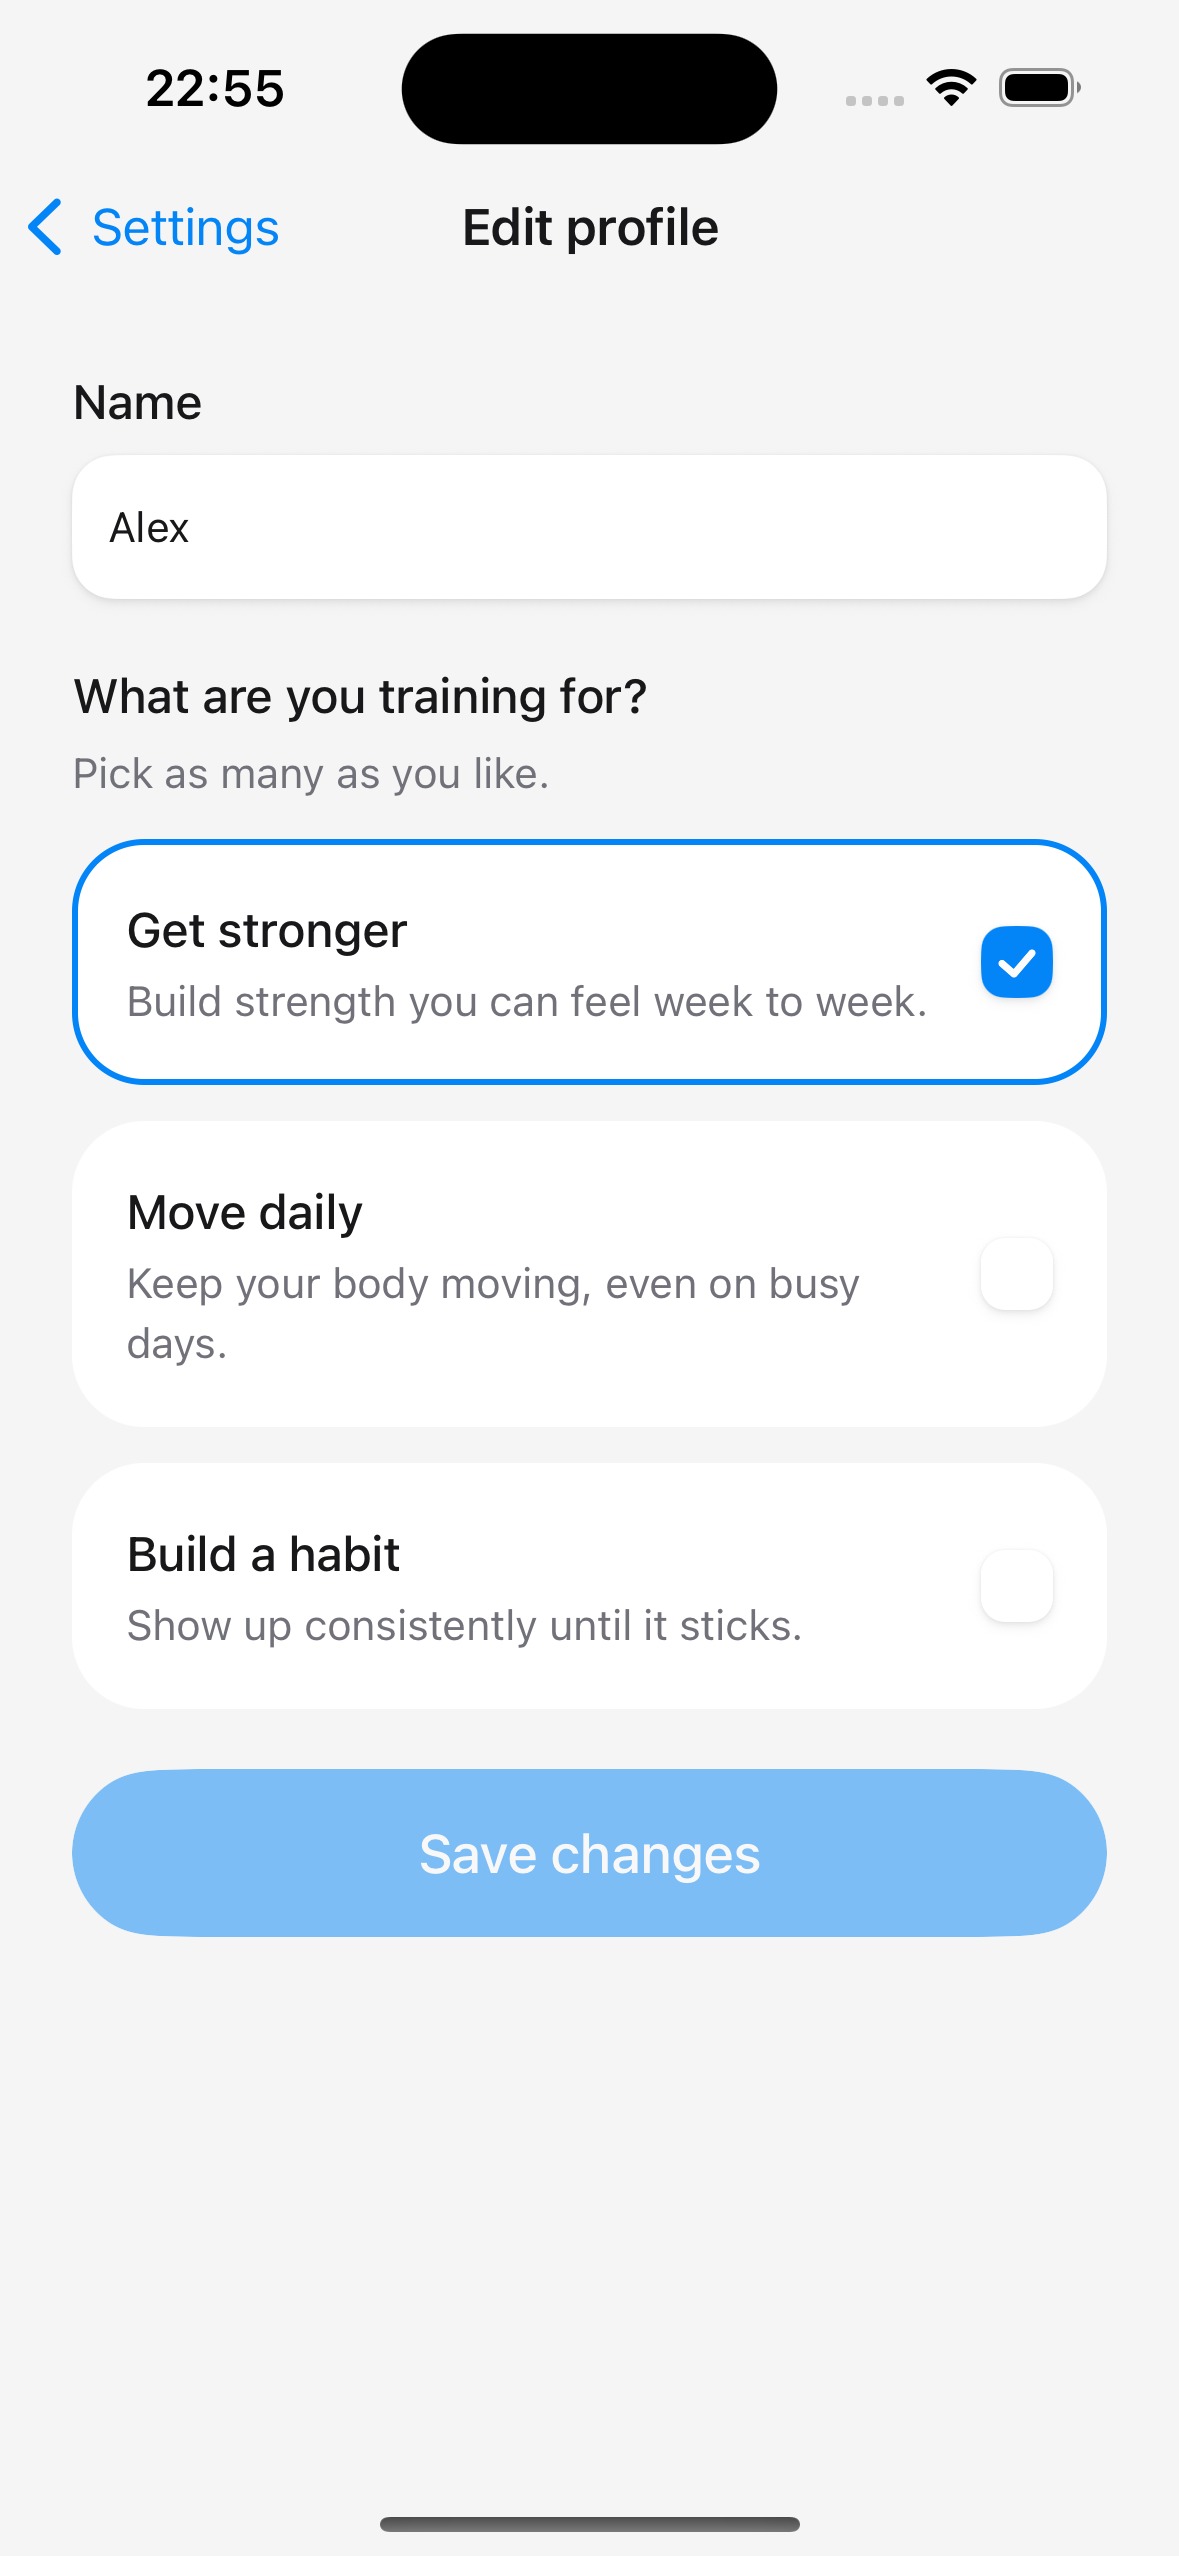
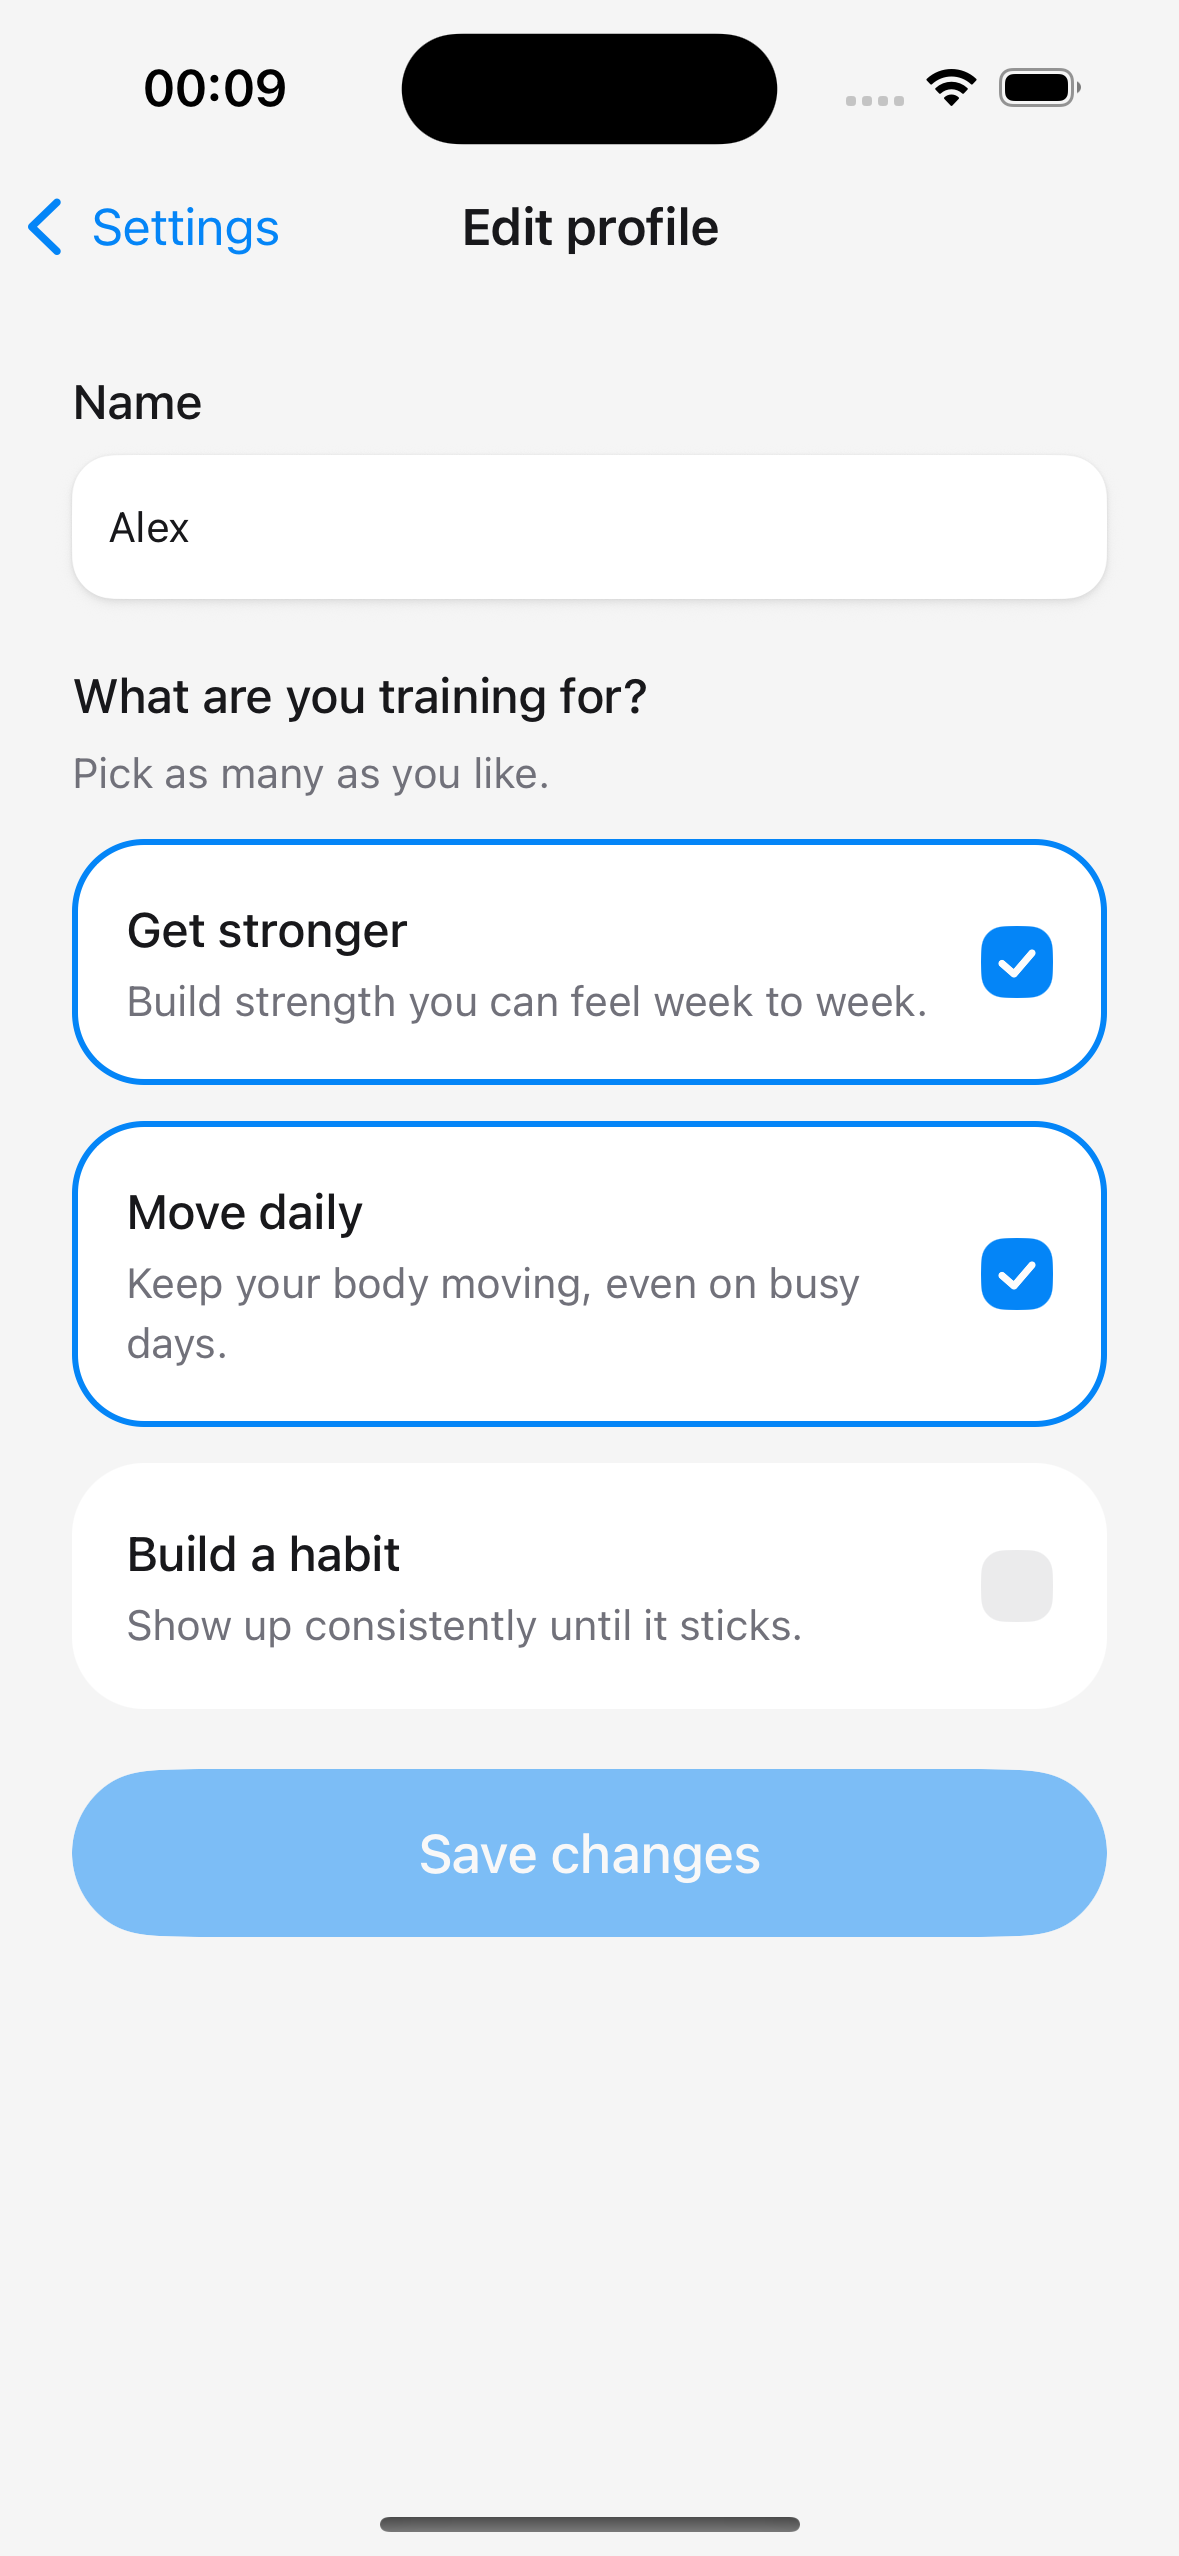
docs(mobile): walkthrough screenshots, readmes and final polish

Changed region(s): [[0.8244, 0.4327, 0.9466, 0.5563], [0.1221, 0.0309, 0.2443, 0.0618], [0.0611, 0.4327, 0.0916, 0.5563]]

diff --git a/apps/mobile/src/features/profile/goals-field.tsx b/apps/mobile/src/features/profile/goals-field.tsx
@@ -1,6 +1,6 @@
 import { GOALS, type Goal } from '@forge/contracts';
 import * as Haptics from 'expo-haptics';
-import { cn, ControlField, Description, FieldError, Label } from 'heroui-native';
+import { Checkbox, cn, ControlField, Description, FieldError, Label } from 'heroui-native';
 import { View } from 'react-native';
 import { useController, type Control, type FieldPath, type FieldValues } from 'react-hook-form';
 import { GOAL_LABELS } from '@/content/labels';
@@ -49,7 +49,11 @@ export function GoalsField<TValues extends FieldValues, TOutput>({
               <Label>{GOAL_LABELS[goal].title}</Label>
               <Description>{GOAL_LABELS[goal].description}</Description>
             </View>
-            <ControlField.Indicator variant="checkbox" />
+            {/* On a surface-coloured card the primary checkbox is invisible in dark (same field
+                colour, transparent shadow); `secondary` keeps a visible box in both modes. */}
+            <ControlField.Indicator>
+              <Checkbox variant="secondary" />
+            </ControlField.Indicator>
           </ControlField>
         );
       })}

diff --git a/apps/mobile/src/features/session/block-row.tsx b/apps/mobile/src/features/session/block-row.tsx
@@ -1,5 +1,5 @@
 import type { SessionBlock } from '@forge/contracts';
-import { ControlField, Surface, Typography } from 'heroui-native';
+import { Checkbox, ControlField, Surface, Typography } from 'heroui-native';
 import { View } from 'react-native';
 import { Icon } from '@/components/icon';
 import { BLOCK_LABELS } from '@/content/labels';
@@ -39,7 +39,12 @@ export function CheckableBlockRow({
       className="rounded-3xl bg-surface p-4"
     >
       <BlockText block={block} muted={false} />
-      <ControlField.Indicator variant="checkbox" />
+      {/* The row is surface-coloured, and so is the primary checkbox's field colour in dark
+          (its shadow is transparent there), so the unticked box vanished; `secondary` sits on
+          `default`, which differs from surface in both modes. */}
+      <ControlField.Indicator>
+        <Checkbox variant="secondary" />
+      </ControlField.Indicator>
     </ControlField>
   );
 }

diff --git a/README.md b/README.md
@@ -50,7 +50,23 @@ pnpm test        # contracts smoke test + API unit tests (in-memory adapters, no
 pnpm test:e2e    # API end-to-end against the docker-compose Postgres (forge_test)
 ```
 
+Mobile: no automated tests by design (TDD exemption). Each screen was checked in the iOS
+Simulator; see the screenshots.
+
 API details (endpoints, env vars, structure): [apps/api/README.md](apps/api/README.md).
+Mobile details (running it, structure): [apps/mobile/README.md](apps/mobile/README.md).
+
+## Screenshots
+
+All from an iPhone 16 simulator; the full set is in [`docs/screenshots/`](docs/screenshots/).
+
+| | |
+| --- | --- |
+| **Sign in**<br><img src="docs/screenshots/sign-in.png" width="300" alt="Sign in"> | **Onboarding**<br><img src="docs/screenshots/onboarding.png" width="300" alt="Onboarding"> |
+| **Plan**<br><img src="docs/screenshots/plan.png" width="300" alt="Plan"> | **Session, ready to complete**<br><img src="docs/screenshots/session-ready.png" width="300" alt="Session ready"> |
+| **Coach chat**<br><img src="docs/screenshots/coach-chat.png" width="300" alt="Coach chat"> | **Paywall**<br><img src="docs/screenshots/paywall.png" width="300" alt="Paywall"> |
+| **Settings**<br><img src="docs/screenshots/settings.png" width="300" alt="Settings"> | **Plan (dark)**<br><img src="docs/screenshots/plan-dark.png" width="300" alt="Plan, dark"> |
+| **Coach chat (dark)**<br><img src="docs/screenshots/coach-chat-dark.png" width="300" alt="Coach chat, dark"> | |
 
 ## Architecture
 
@@ -62,3 +78,16 @@ API details (endpoints, env vars, structure): [apps/api/README.md](apps/api/READ
   profile persisted for an instant cold start) and Zustand (JWT in SecureStore).
 - Design: [`docs/superpowers/specs/2026-09-28-forge-design.md`](docs/superpowers/specs/2026-09-28-forge-design.md).
   Rulings made while building: [`docs/decisions/`](docs/decisions/).
+
+## What I'd change with one more hour
+
+- In dark mode the sticky "Next session" bar sits on the last timeline card with only a
+  hairline between two identically coloured surfaces, because surface shadows are transparent
+  there. A slightly lighter bar tone or a stronger border would give it back the elevation it
+  has in light mode.
+- The bar's "Restart plan" button is taller than its "Start" button (a 56 pt submit button
+  next to the default 48 pt one), so the bar grows when the plan completes. One shared button
+  size would keep the bar's shape steady between the two states.
+- On the headerless tab screens (Plan, Settings) the content scrolls straight under the
+  status-bar clock. A fading top edge or a collapsing title would keep the clock legible
+  while scrolling.

diff --git a/docs/decisions/plan-b.md b/docs/decisions/plan-b.md
@@ -30,3 +30,5 @@
 - A coach send that times out (15 s) is rolled back and never retried, although the server may still complete the queued POST (observed with a frozen API: "Hello" and its reply were in the history after the thaw) · the contract has no idempotency key, so a client retry could only duplicate the message, and the next history fetch (foreground refetch) shows the server's copy · a user who taps Send again after a timeout can end up with the same message twice
 - Settings keeps the brief's spacing and scrolls on an iPhone 16: at rest the list overflows by ≈ 139 pt (bottom padding included), so "Delete account & data" and the version line need a scroll · fitting them above the tab bar would cost ≈ 55 pt (tighter section gaps plus a smaller avatar) and flatten the hierarchy for the sake of one destructive row, and a settings list that scrolls is what iOS Settings does · the destructive row and the version sit out of sight until the user scrolls
 - The Settings membership row branches on `entitlement.data` first: a skeleton row while the query is pending or a retry is in flight, a tap-to-retry row ("Couldn't load membership") once it has failed, and the Free / Plus rows only from real data · `['entitlement']` is neither persisted nor placeholdered, so a Plus user launching offline would otherwise see "Free — See Forge Plus" and be sent to the paywall · offline, the row stays a skeleton for ≈ 48 s (three 15 s timeouts plus backoff) before the retry row appears
+- Checkboxes on surface-coloured rows (session blocks, goal cards) are an explicit `<Checkbox variant="secondary">` inside `ControlField.Indicator` · the final walkthrough showed the unticked box vanishing in dark: the primary variant's field colour equals `surface` there and its shadow is transparent, and HeroUI only auto-selects `secondary` inside its own `<Surface>`, not in a plain `ControlField` with `bg-surface` · in light the box is a flat `default`-toned square instead of the shadowed white one
+- The walkthrough's remaining visual nits are left as they are and listed in the root README's "one more hour" section: the dark sticky bar's hairline-only separation from the last card, the taller "Restart plan" button next to "Start", and tab-screen content scrolling under the status-bar clock · each is cosmetic, none blocks a flow, and a fix in the final task would go unreviewed · reviewers see three small imperfections that the README already owns up to

diff --git a/apps/mobile/README.md b/apps/mobile/README.md
@@ -1,0 +1,40 @@
+# @forge/mobile
+
+The Forge app: Expo SDK 57, Expo Router, HeroUI Native + Uniwind. It runs in **Expo Go**, with
+no dev client and no native code of its own.
+
+## Run it
+
+From the repo root, with the API running (`pnpm dev:api`):
+
+```bash
+cp apps/mobile/.env.example apps/mobile/.env   # optional: only to point at another API URL
+pnpm dev:mobile                                # then press i for the iOS Simulator
+```
+
+The first `i` installs Expo Go for SDK 57 on the simulator (a large download).
+`EXPO_PUBLIC_API_URL` picks the API: `http://localhost:3000` for the simulator,
+`http://10.0.2.2:3000` for the Android emulator, and `http://<LAN IP>:3000` for a phone.
+
+## How it's put together
+
+- **Routing:** `src/app` with `Stack.Protected` guards. Signed out → `(auth)`; signed in but
+  not onboarded → `onboarding`; otherwise → `(tabs)` (Plan · Coach · Settings), plus
+  `session/[id]`, `profile` and the `paywall` modal.
+- **Server state:** TanStack Query. Only `me` and `plan` persist (AsyncStorage), so a cold
+  launch paints instantly and then re-syncs. Every response body is parsed with the
+  matching `@forge/contracts` schema.
+- **Client state:** Zustand. The JWT lives in SecureStore; checklist ticks and the pending
+  unlock celebration live in memory. Signing out wipes the token, both caches and the stores.
+- **UI:** HeroUI Native components, with colour and spacing only from theme tokens
+  (className). Light/dark follows the system. Reanimated handles motion (with Reduce Motion
+  respected) and expo-haptics handles haptics.
+
+## Verified on
+
+- iPhone 16 simulator (iOS 18.4), Expo Go SDK 57, light and dark.
+- Android: not verified locally: there was no Android emulator (AVD) on the development
+  machine. Point `EXPO_PUBLIC_API_URL` at `http://10.0.2.2:3000` to try it.
+
+Screenshots: [`docs/screenshots/`](../../docs/screenshots/). Decisions:
+[`docs/decisions/plan-b.md`](../../docs/decisions/plan-b.md).
